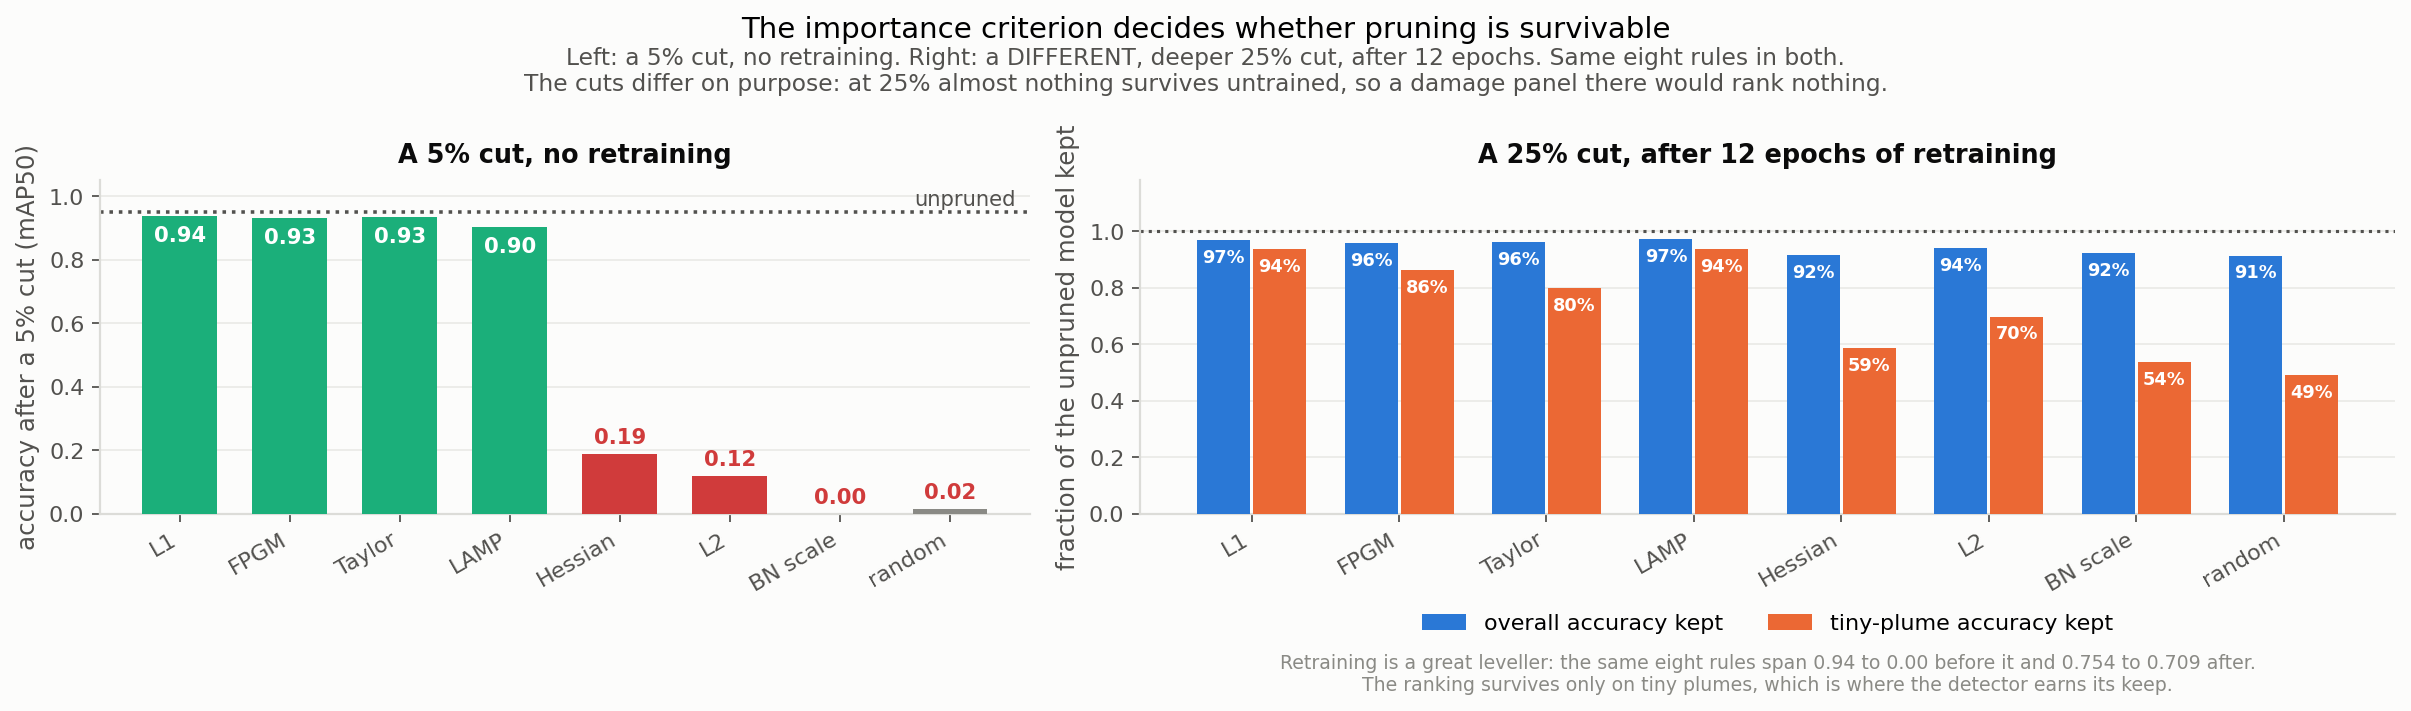
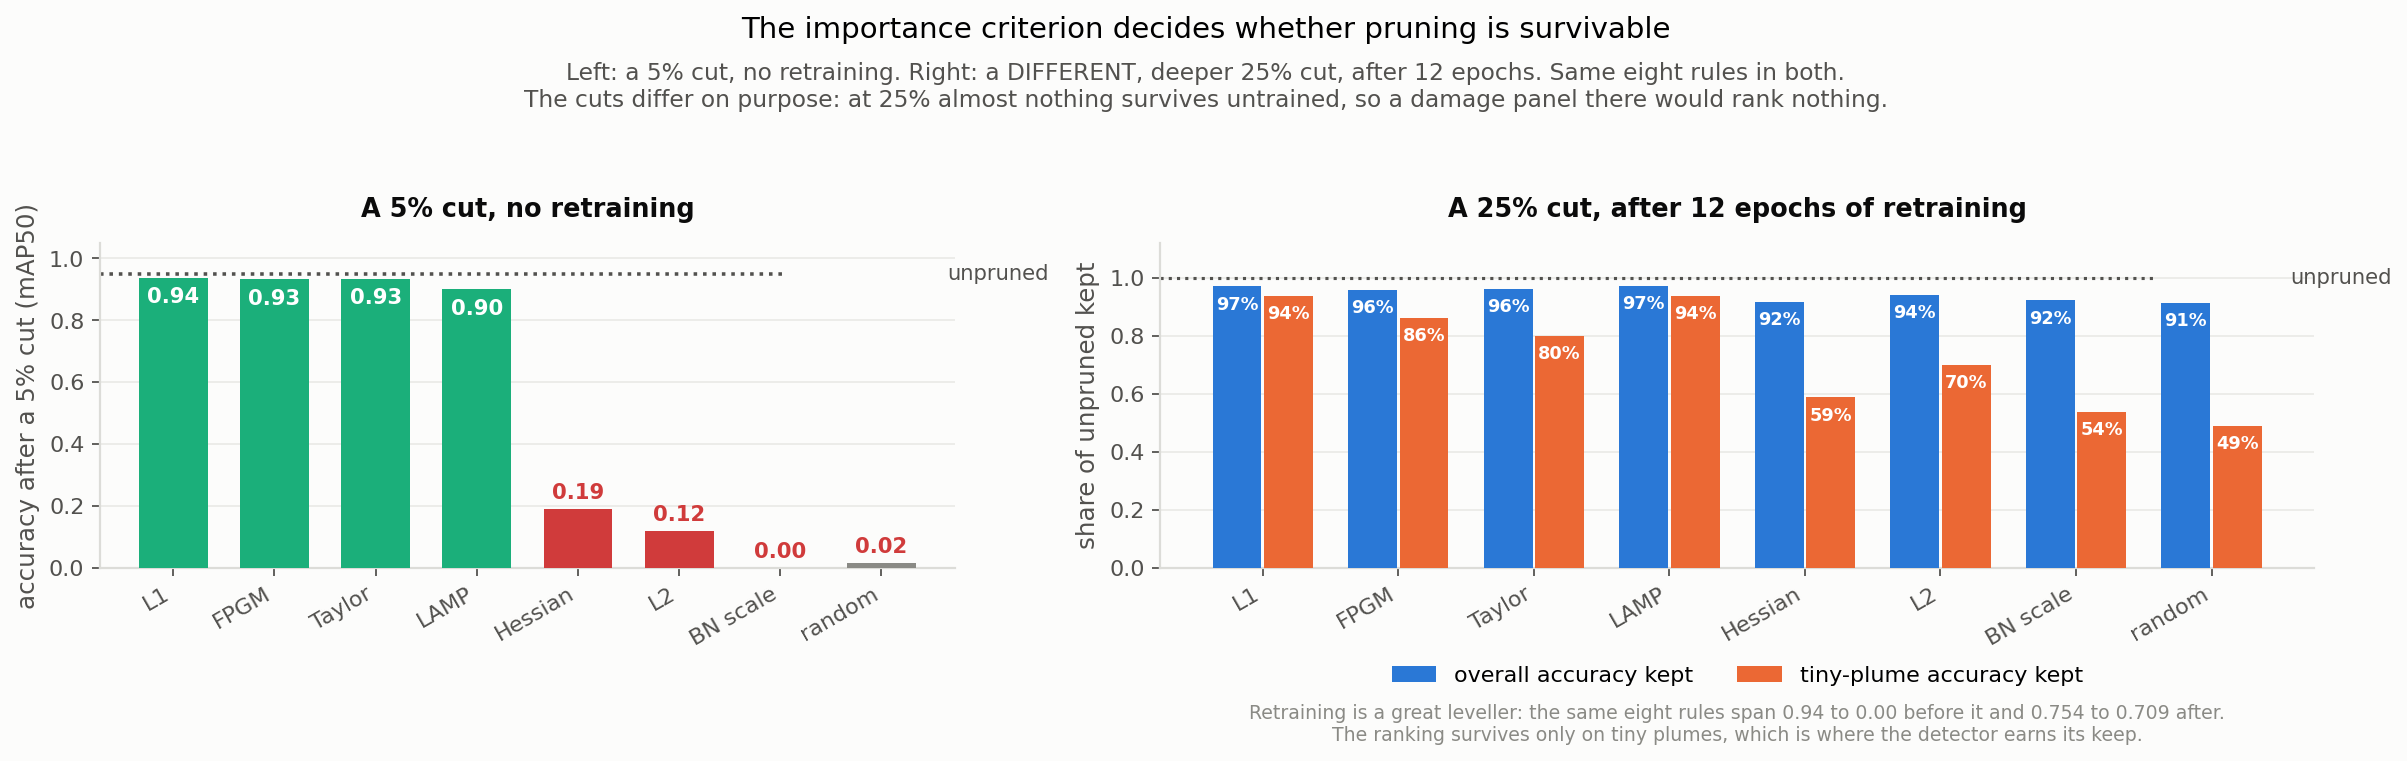
XP6 E2 figure: stop the reference lines short of their own labels
The unpruned reference line was drawn full width and its label sat on top of it,
so the dots ran through the word. Both lines now stop at 80 and 86 percent of the
axis and the label sits in the gap they leave, which cannot collide by
construction rather than by chosen offsets.

Also labels the 1.0 line on the recovered panel, which previously had none and
left the reader to infer what it marked, shortens a y-axis label that crowded
the panel title, and adds padding between the subtitle and both titles.

diff --git a/analysis/make_figures.py b/analysis/make_figures.py
@@ -675,12 +675,12 @@ def fig_xp06e2(records) -> Path | None:
 
     fig, axes = plt.subplots(1, 2, figsize=(15.2, 4.8),
                              gridspec_kw={"width_ratios": [1, 1.35]})
-    fig.suptitle("The importance criterion decides whether pruning is survivable", y=1.06)
+    fig.suptitle("The importance criterion decides whether pruning is survivable", y=1.13)
     style.subtitle(fig, "Left: a 5% cut, no retraining. Right: a DIFFERENT, deeper 25% cut, "
                         "after 12 epochs. Same eight rules in both.\nThe cuts differ on "
                         "purpose: at 25% almost nothing survives untrained, so a damage panel "
                         "there would rank nothing.",
-                   y=1.02)
+                   y=1.07)
 
     ax = axes[0]
     vals = [cells[(c, 0.05)]["val_map50"] for c in shown]
@@ -690,9 +690,10 @@ def fig_xp06e2(records) -> Path | None:
                (style.RED if cells[(c, 0.05)]["val_map50"] < 0.5 * base else style.AQUA)
                for c in shown]
     bars = ax.bar(range(len(shown)), vals, color=colours, width=0.68, zorder=3)
-    ax.axhline(base, color=style.INK_2, linestyle=":", linewidth=1.6, zorder=2)
-    ax.text(len(shown) - 0.4, base + 0.02, "unpruned", fontsize=9.5,
-            color=style.INK_2, ha="right")
+    ax.axhline(base, color=style.INK_2, linestyle=":", linewidth=1.6, zorder=2,
+               xmax=0.80)
+    ax.text(len(shown) - 0.35, base, "unpruned", fontsize=9.5, color=style.INK_2,
+            ha="left", va="center")
     for b, v in zip(bars, vals):
         x = b.get_x() + b.get_width() / 2
         if v > 0.25:                      # tall enough to hold the label inside
@@ -705,7 +706,7 @@ def fig_xp06e2(records) -> Path | None:
     ax.set_xticklabels([pretty[c] for c in shown], rotation=30, ha="right")
     ax.set_ylabel("accuracy after a 5% cut (mAP50)")
     ax.set_ylim(0, 1.05)
-    ax.set_title("A 5% cut, no retraining", fontsize=11.5, pad=8)
+    ax.set_title("A 5% cut, no retraining", fontsize=11.5, pad=12)
     style.tidy(ax)
 
     # Panel 2: after retraining the criteria converge on the easy cases and stay
@@ -742,13 +743,16 @@ def fig_xp06e2(records) -> Path | None:
                     fontsize=8, fontweight="bold", color="white")
             ax.text(i + 0.19, t - 0.03, f"{t:.0%}", ha="center", va="top",
                     fontsize=8, fontweight="bold", color="white")
-        ax.axhline(1.0, color=style.INK_2, linestyle=":", linewidth=1.4, zorder=2)
+        ax.axhline(1.0, color=style.INK_2, linestyle=":", linewidth=1.4, zorder=2,
+                   xmax=0.86)
+        ax.text(len(names) - 0.42, 1.0, "unpruned", fontsize=9.5, color=style.INK_2,
+                ha="left", va="center")
         ax.set_xticks(x)
         ax.set_xticklabels([pretty[c] for c in names], rotation=30, ha="right")
-        ax.set_ylim(0, 1.18)
-        ax.set_ylabel("fraction of the unpruned model kept")
+        ax.set_ylim(0, 1.12)
+        ax.set_ylabel("share of unpruned kept")
         ax.set_title("A 25% cut, after 12 epochs of retraining",
-                     fontsize=11.5, pad=8)
+                     fontsize=11.5, pad=12)
         # Say why this panel is a subset: recovery costs ~20 min per arm against
         # seconds for damage, so only the leaders plus the control were paid for.
         ax.text(0.5, -0.42, "Retraining is a great leveller: the same eight rules span 0.94 to "
